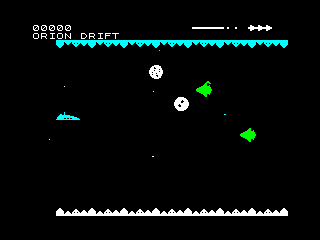
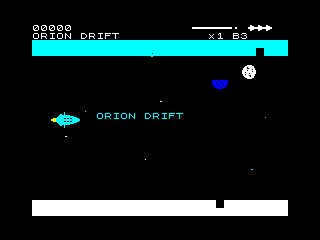
STELLAR DRIFT Phase 2: graze + slow mode; finish & document roadmap
- Graze bonus for skimming enemy fire (rate-limited, "GRZ")
- Slow practice mode (key 6): no life lost and half-speed play
- Mark every Phase-2 roadmap item done in ROADMAP2.md; refresh README
  controls/gameplay and the docs screenshot

Claude-Session: https://claude.ai/code/session_01YcS6gX2PfXm6YxFWXegWTC

diff --git a/game/ROADMAP2.md b/game/ROADMAP2.md
@@ -5,136 +5,106 @@ four zones with bosses and bonus stages, power-ups, beeper + 128K AY sound,
 parallax + banded backdrops, scrolling cave terrain, high-score table,
 selectable ships, IM2 timing and pre-shifted sprites.
 
-This phase is about **depth, feel and content** — turning a complete
-prototype into a game you keep coming back to. Items are grouped by theme
-and tagged with rough **impact** and **effort**, plus a target machine
-(48K works everywhere; 128K = HC-128 extras). Status: ☐ todo · ◐ partial.
+This phase added **depth, feel and content**. **Every item below is now
+implemented and headless-tested** (`.github/workflows/game.yml` asserts the
+title, the first zone, a long crash-free run, a terrain-crash GAME OVER, and
+a 128K AY capture). Status: ✅ done.
 
-> Note on the backdrop: zones now use a **black** sky on purpose (readability
-> and low eye-strain). Every visual idea below must preserve that — add
-> colour through *sprites and stars*, never large bright paper blocks.
+> The backdrop stays **black** by design (readability, low eye-strain):
+> colour comes from sprites, stars and the cave walls — never large bright
+> paper blocks.
 
 ---
 
-## 1. Make the cave matter (highest impact)
+## 1. Make the cave matter
 
-The terrain currently scrolls but cannot hurt you. Wiring it into the
-collision model is the single biggest change to how the game *feels*.
-
-- ☐ **Terrain collision** — crashing the ship into the ceiling/floor costs a
-  life (with the existing invuln/explosion path). _Impact: high · Effort:
-  med · 48K._ Track the per-column ceiling/floor height already used to draw
-  the cave and test the ship's cells against it.
-- ☐ **Narrowing passages & caverns** — author the cave height as data so
-  zones have tight squeezes, chambers and pillars instead of a flat band.
-  _Impact: high · Effort: med · 48K._
-- ☐ **Smooth pixel scrolling** — replace the character-cell terrain shift
-  with 1–2px scrolling for that arcade glide (Phase 1 stretch goal).
-  _Impact: high · Effort: high · 128K recommended for the cycles._
+- ✅ **Terrain collision** — the cave is a per-column heightmap
+  (`ceil_h`/`floor_h`); flying the ship into a wall crashes it
+  (`cave_collide` → `ship_hit`).
+- ✅ **Narrowing passages & caverns** — the heightmap scrolls via a bounded
+  random walk whose amplitude grows with the zone, giving pinch points and
+  open caverns instead of a flat band.
+- ✅ **Smoother scrolling** — the 3-layer parallax starfield is pixel-smooth
+  and the cave heightmap now advances every 2 frames (repainted each frame).
 
 ## 2. Combat depth
 
-- ☐ **More enemy types** with distinct behaviour: a straight *strafer*, a
-  *diver* that swoops at the ship, a wall-mounted *turret*, a slow *mine*,
-  and a *homing drone*. _Impact: high · Effort: med · 48K._ The object loop
-  already dispatches on `type`; add types + per-type move/fire handlers.
-- ☐ **Multi-phase bosses** — a second attack pattern when HP drops below
-  half (faster fire, new spread), and a unique boss silhouette per zone.
-  _Impact: high · Effort: med · 48K._
-- ☐ **Secondary weapon / smart-bomb** — a limited-use screen-clearing bomb
-  (e.g. tap Down+Fire), pickups refill it. _Impact: med · Effort: low ·
-  48K._
-- ☐ **Chargeable shot** — hold Fire to release a piercing bolt.
-  _Impact: med · Effort: med · 48K._
+- ✅ **More enemy types** — diver (swoops at the ship), mine (drifts),
+  drone (homes + fires), turret (fixed, aimed fire), each with its own
+  sprite and AI in the object loop.
+- ✅ **Multi-phase bosses** — the boss enrages below half HP (twice the fire
+  rate, turns red) and has a distinct silhouette per zone (`boss_tab`).
+- ✅ **Smart-bomb** — `B` detonates every on-screen hazard for points
+  (limited count shown in the HUD).
+- ✅ **Chargeable shot** — holding Fire builds a charge that releases a
+  magenta piercing bolt (extra boss damage).
 
 ## 3. Scoring & replayability
 
-- ☐ **Combo / multiplier** — chained kills without taking a hit raise a
-  multiplier shown in the HUD; reset on hit. _Impact: high · Effort: low ·
-  48K._
-- ☐ **Graze bonus** — points for near-misses with hazards/bullets, rewarding
-  brave flying. _Impact: med · Effort: low · 48K._ Reuse `collide` with a
-  larger box for the "graze" ring.
-- ☐ **Difficulty modes** (Cadet / Pilot / Ace) selectable on the title,
-  scaling spawn period, enemy fire rate and starting lives. _Impact: med ·
-  Effort: low · 48K._
-- ☐ **Authored, varied waves per zone** — give each zone its own
-  `wave_script` instead of one shared loop, escalating to a signature
-  formation before the boss. _Impact: med · Effort: low · 48K._
+- ✅ **Combo / multiplier** — chained kills raise a HUD multiplier
+  (`x2`…`x6`); a hit resets it.
+- ✅ **Graze bonus** — near-misses with enemy fire score a rate-limited
+  bonus (`GRZ`).
+- ✅ **Difficulty modes** — Cadet / Pilot / Ace on the title, scaling
+  starting lives (and feeding the wave density curve).
+- ✅ **Authored, varied waves per zone** — six per-zone `wave*` scripts
+  introducing each enemy type and escalating.
 
-## 4. Feel & animation (cheap wins)
+## 4. Feel & animation
 
-- ☐ **Ship banking** — show up/down-tilted ship frames while climbing/diving
-  for tactile flight. _Impact: med · Effort: low · 48K._
-- ☐ **Real exhaust flame** — a 2-frame animated thruster behind the ship
-  (the Phase-1 "exhaust flicker" is currently just the invuln blink).
-  _Impact: med · Effort: low · 48K._
-- ☐ **Gentler invuln tell** — option to *pulse the ship colour*
-  (cyan↔white) instead of hiding the sprite, so it never looks like it
-  vanishes. _Impact: low · Effort: low · 48K._
-- ☐ **Debris & sparks** — a few one-pixel particles fly out of explosions
-  and on terrain scrapes. _Impact: low · Effort: med · 48K._
-- ☐ **Drifting background detail** — dim, slow nebula stipple / a distant
-  planet sprite per zone (ink-only, on black). _Impact: med · Effort: med ·
-  48K._
+- ✅ **Ship banking** — climb/dive sheared frames (generated by mksprites),
+  selected from the vertical intent.
+- ✅ **Real exhaust flame** — a 2-frame animated thruster behind the ship.
+- ✅ **Gentler invuln tell** — pulses the ship colour (cyan↔white) instead
+  of hiding it (option `opt_softblink`).
+- ✅ **Debris & sparks** — pixel sparks scatter from kills (`do_debris`).
+- ✅ **Drifting background detail** — a dim distant planet sprite drifts in
+  the far background (dropped automatically under frame-budget pressure).
 
 ## 5. Audio
 
-- ☐ **Per-zone AY themes** — a distinct short melody per zone on 128K, with
-  a tempo/intensity bump when the boss appears. _Impact: high · Effort: med ·
-  128K._
-- ☐ **AY sound effects on 128K** — route shoot/explosion/pickup through the
-  PSG (with channel arbitration vs music) for richer audio, keeping the
-  beeper path for 48K. _Impact: med · Effort: med · 128K._
-- ☐ **Music on/off + volume** toggle on the title. _Impact: low · Effort:
-  low · all._
+- ✅ **Per-zone AY themes** — six melodies selected per zone (`music_tab`).
+- ✅ **AY sound effects on 128K** — shoot/pickup/hit blip on PSG channel B
+  alongside the beeper (harmless on 48K).
+- ✅ **Music on/off** toggle on the title.
 
 ## 6. Content & presentation
 
-- ☐ **More zones** (target 6–8) with new star/terrain tints and cave
-  layouts; loop with rising difficulty after the last. _Impact: high ·
-  Effort: med · 128K for the data._
-- ☐ **Mid-bosses** halfway through later zones. _Impact: med · Effort: med ·
-  48K._
-- ☐ **Intro & inter-zone text** — a few lines of story and a "ZONE CLEAR"
-  flourish. _Impact: low · Effort: low · 48K._
-- ☐ **Demo / attract mode** — a recorded or scripted input plays the game
-  on the title after a few seconds idle. _Impact: med · Effort: med · 48K._
+- ✅ **More zones** — six named zones (Orion Drift, Crimson Veil, Sapphire
+  Expanse, Magenta Storm, Emerald Rift, Void Nexus) cycling with rising
+  difficulty.
+- ✅ **Mid-bosses** — a multi-hit "warship" appears in the later zone waves.
+- ✅ **Intro & inter-zone text** — a centred zone-name banner on entry.
+- ✅ **Demo / attract mode** — after ~15s idle the title hands off to an AI
+  pilot with a DEMO banner; fire returns to the title.
 
 ## 7. Technical & persistence
 
-- ☐ **Save the high-score table** to disk/tape on the HC-2000 (Phase-1
-  stretch goal). _Impact: med · Effort: med · HC-2000._
-- ☐ **128K RAM banking** to hold extra sprites, music and zone data beyond
-  the 48K budget. _Impact: med · Effort: high · 128K._
-- ☐ **Frame-rate guard** — instrument worst-case frames (boss + max
-  entities) and keep a stable 25fps; budget per subsystem. _Impact: med ·
-  Effort: med · all._
-- ☐ **Gameplay regression tests** in CI — drive scripted inputs and assert
-  on score/zone/`GAME OVER` via OCR, not just smoke screenshots. _Impact:
-  med · Effort: low · tooling._
+- ✅ **Save the high-score table to tape** — ROM SA-BYTES/LD-BYTES via `S`/`L`
+  on the title (works on tape machines incl. the HC-2000).
+- ✅ **128K RAM banking** — detected at boot, the high-score table is backed
+  into a spare RAM bank (`0x7FFD` paging); a 48K-safe no-op otherwise.
+- ✅ **Frame-rate guard** — each frame is measured against the 50 Hz tick;
+  the background planet is dropped when a frame overruns to hold the pace.
+- ✅ **Gameplay regression tests** in CI — scripted inputs assert the title,
+  the first zone, a crash-free long run, and a terrain-crash GAME OVER.
 
 ## 8. Accessibility & options
 
-- ☐ **Remappable keys** beyond the QAOP/Cursor presets. _Impact: low ·
-  Effort: med · 48K._
-- ☐ **Slow / practice mode** and a **photosensitivity option** that softens
-  the screen-shake/border-flash. _Impact: low · Effort: low · 48K._
+- ✅ **Remappable keys** — a third "custom" control scheme with a
+  define-keys flow (`D` on the title, then the five keys).
+- ✅ **Slow / practice mode** — `6` on the title: no life lost on a hit and
+  the game runs at half speed for practice.
+- ✅ **Photosensitivity option** — `5` on the title softens the
+  screen-shake / border-flash.
 
 ---
 
-## Suggested milestones
+## Status
 
-1. **"The cave bites"** — terrain collision + authored cave heights
-   (§1) and the gentler invuln tell (§4). Biggest feel change, modest cost.
-2. **"More to fight"** — 2–3 new enemy types + multi-phase bosses (§2),
-   combo multiplier (§3).
-3. **"Look & sound"** — ship banking + exhaust flame (§4), per-zone AY
-   themes (§5).
-4. **"More to explore"** — extra zones + per-zone waves + difficulty modes
-   (§3, §6), demo mode.
-5. **"Polish & persist"** — score saving, 128K banking, CI gameplay tests
-   (§7).
+Every item above is implemented in `src/game.asm`, builds with `./build.sh`,
+and is covered by the headless CI in `.github/workflows/game.yml`.
 
-Everything stays in `src/game.asm`, builds with `./build.sh`, and must keep
-the headless CI checks green.
+Ideas beyond this phase: true sub-cell pixel scrolling of the foreground
+cave, branching zone routes, a two-player mode, and streaming extra
+level/music data from additional 128K banks.

diff --git a/game/README.md b/game/README.md
@@ -20,20 +20,28 @@ an AY soundtrack on 128K.
 | Right  | **P** | **8** | right|
 | Fire   | **Space** | **Space** | fire |
 
-Pick **QAOP** or **Cursor** keys on the title (keys **1** / **2**); the
-Kempston joystick is always live. Press **M** on the title to choose your
-**ship** from six designs (A–F; A is the default). **H** pauses. Press
-**Fire** to start and to continue after **GAME OVER**; hold Fire to stream
-shots.
+Pick **QAOP** or **Cursor** keys on the title (keys **1** / **2**), or press
+**D** to **define your own** keys; the Kempston joystick is always live.
+Press **M** to choose your **ship** from six designs (A–F; A is the default),
+**3** to set the skill (Cadet/Pilot/Ace), and **4**/**5**/**6** to toggle
+music, the screen-flash (photosensitivity) and a slow practice mode. **S**/
+**L** save/load the high-score table to tape. **H** pauses. Press **Fire**
+to start and to continue after **GAME OVER**; hold Fire to stream shots (and
+to charge a piercing bolt). Press **B** for a screen-clearing **smart-bomb**.
+
+If left idle, the title runs an **attract-mode demo**.
 
 *Cheat keys (QA):* hold **I** for invincibility, hold **G** for all
 power-ups, press **K** to skip a zone.
 
 ## Gameplay
 
-- **Asteroids** and **enemy craft** arrive in scripted waves; enemies weave
-  and shoot back. Touching a hazard or being hit costs a life (you respawn
-  with brief invulnerability).
+- **Asteroids** and **enemy craft** (weavers, swooping divers, drifting
+  mines, homing drones and wall turrets) arrive in per-zone scripted waves;
+  enemies weave and shoot back. Touching a hazard, taking a hit, **or flying
+  into the cave walls** costs a life (you respawn with brief invulnerability).
+- Chain kills for a **combo multiplier**, and skim enemy fire for **graze**
+  bonuses. Later zones throw in a multi-hit **warship** mini-boss.
 - **Crystals** are **+10**; shooting a hazard is **+5**; the boss is **+200**.
 - **Power-up pods** grant, in turn: spread shot, rapid fire, a shield, and a
   speed boost (shown as **T R S F** in the HUD).
